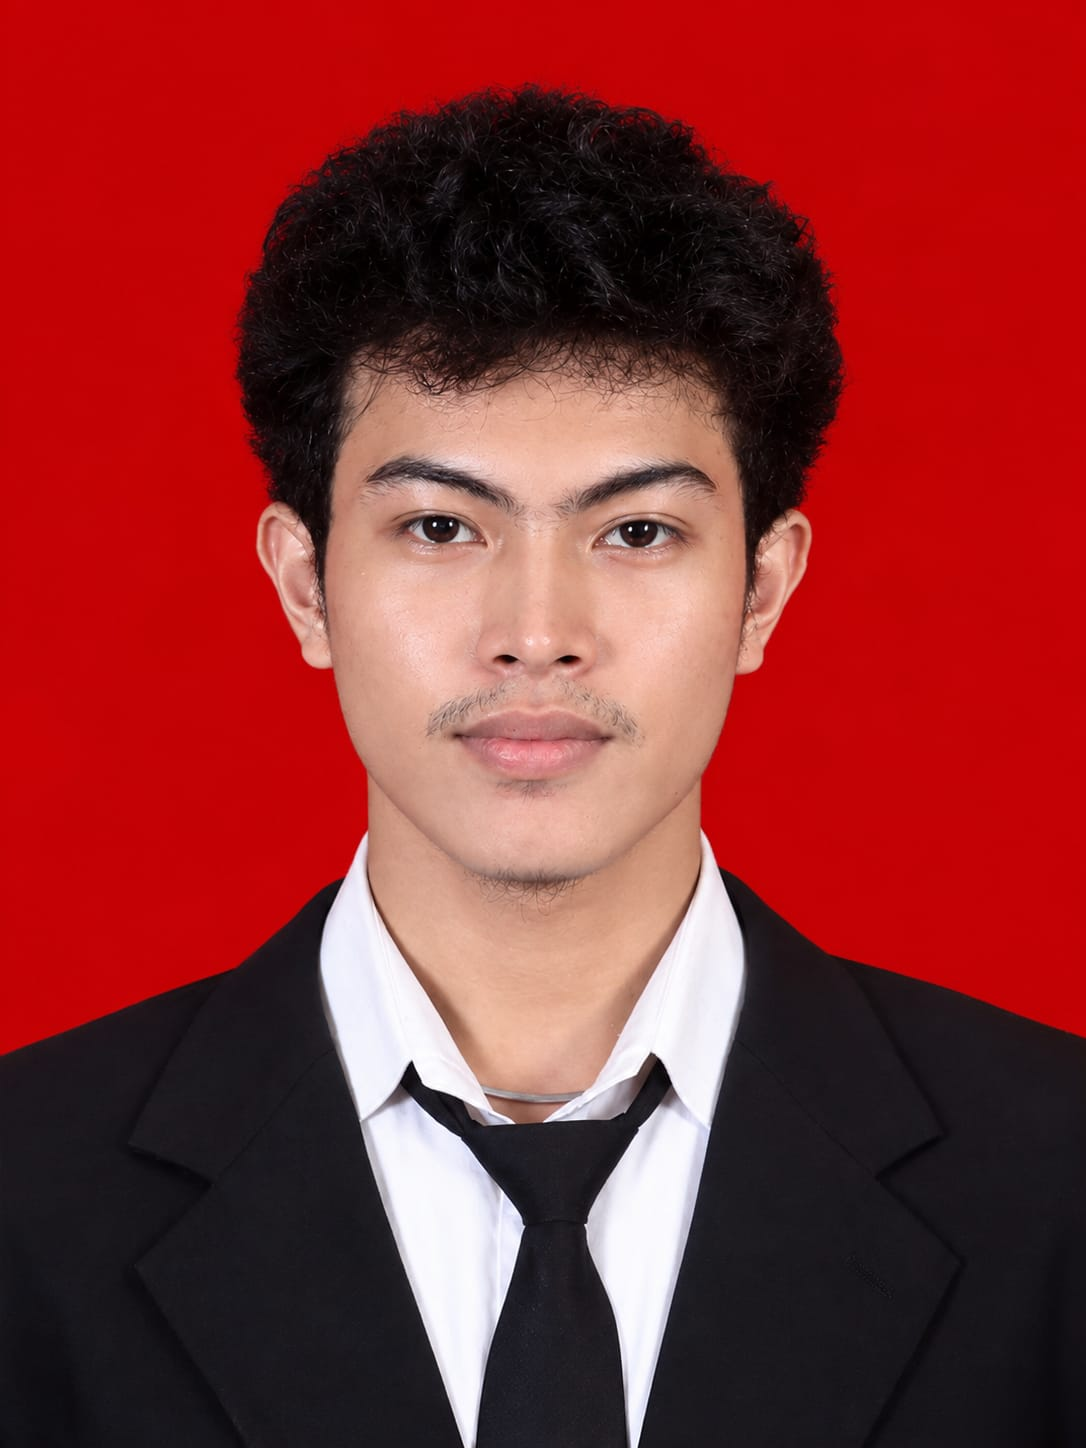
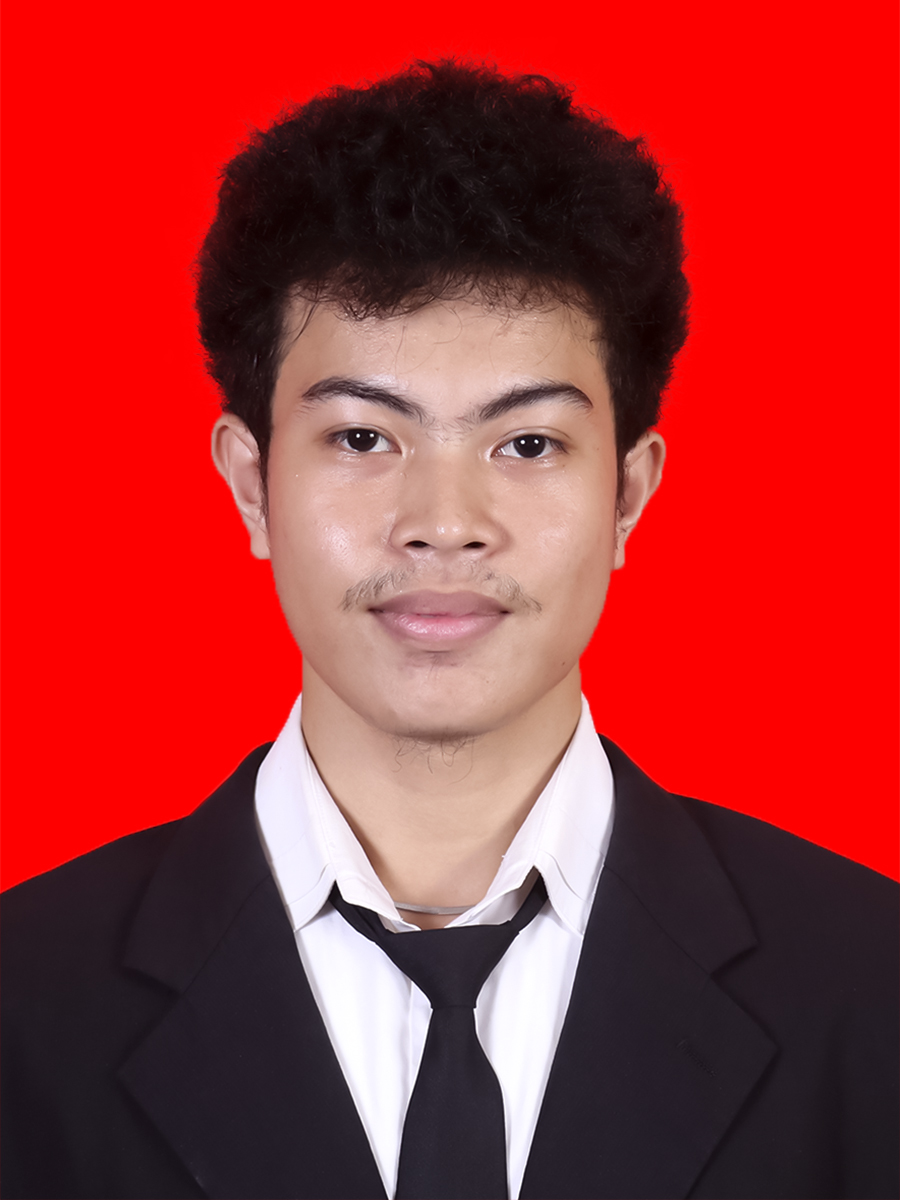
Memperbarui seluruh konten portofolio

diff --git a/src/index.css b/src/index.css
@@ -26,4 +26,43 @@
   .via-primary {
     --tw-gradient-via: var(--primary);
   }
+
+  .hero-content-enter {
+    animation: hero-content-enter 700ms ease-out both;
+  }
+
+  .hero-image-enter {
+    animation: hero-image-enter 850ms 150ms ease-out both;
+  }
+}
+
+@keyframes hero-content-enter {
+  from {
+    opacity: 0;
+    transform: translateY(24px);
+  }
+
+  to {
+    opacity: 1;
+    transform: translateY(0);
+  }
+}
+
+@keyframes hero-image-enter {
+  from {
+    opacity: 0;
+    transform: translateX(32px) scale(0.96);
+  }
+
+  to {
+    opacity: 1;
+    transform: translateX(0) scale(1);
+  }
+}
+
+@media (prefers-reduced-motion: reduce) {
+  .hero-content-enter,
+  .hero-image-enter {
+    animation: none;
+  }
 }
